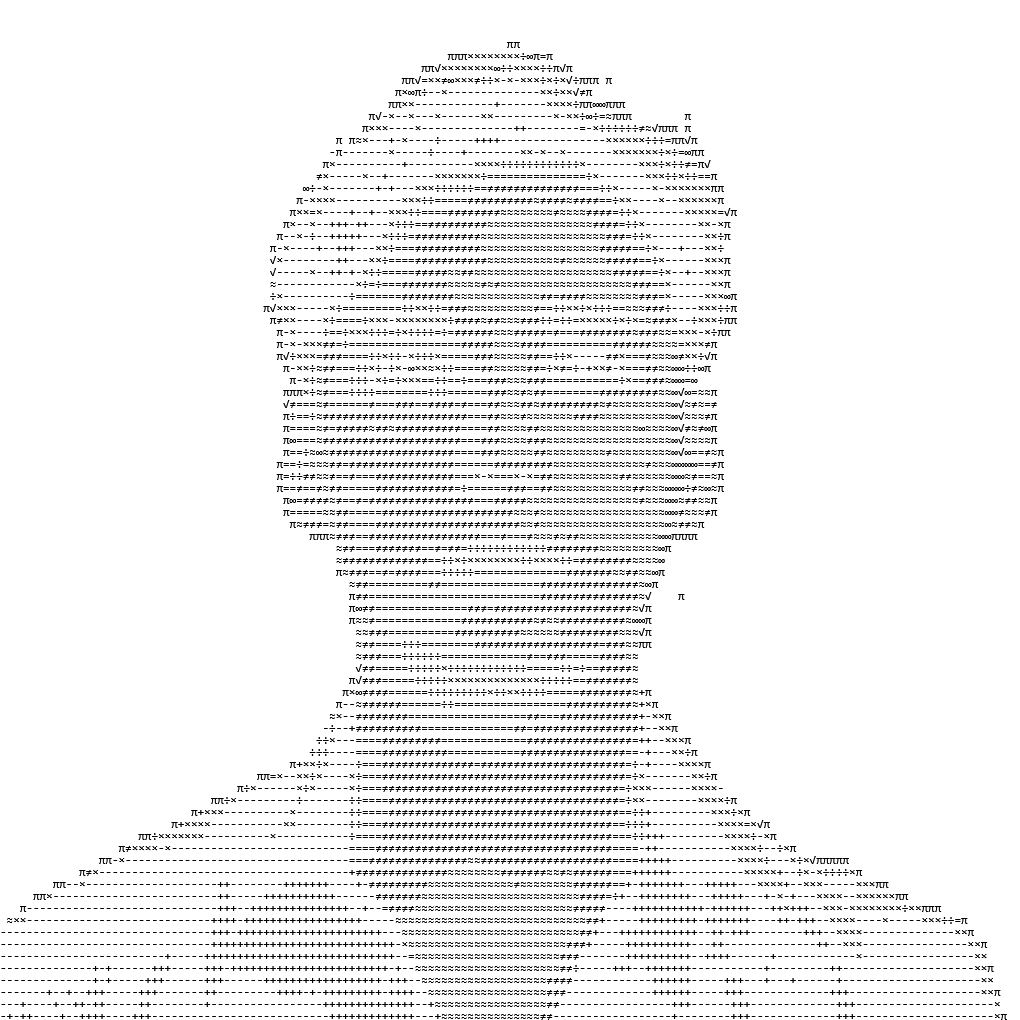
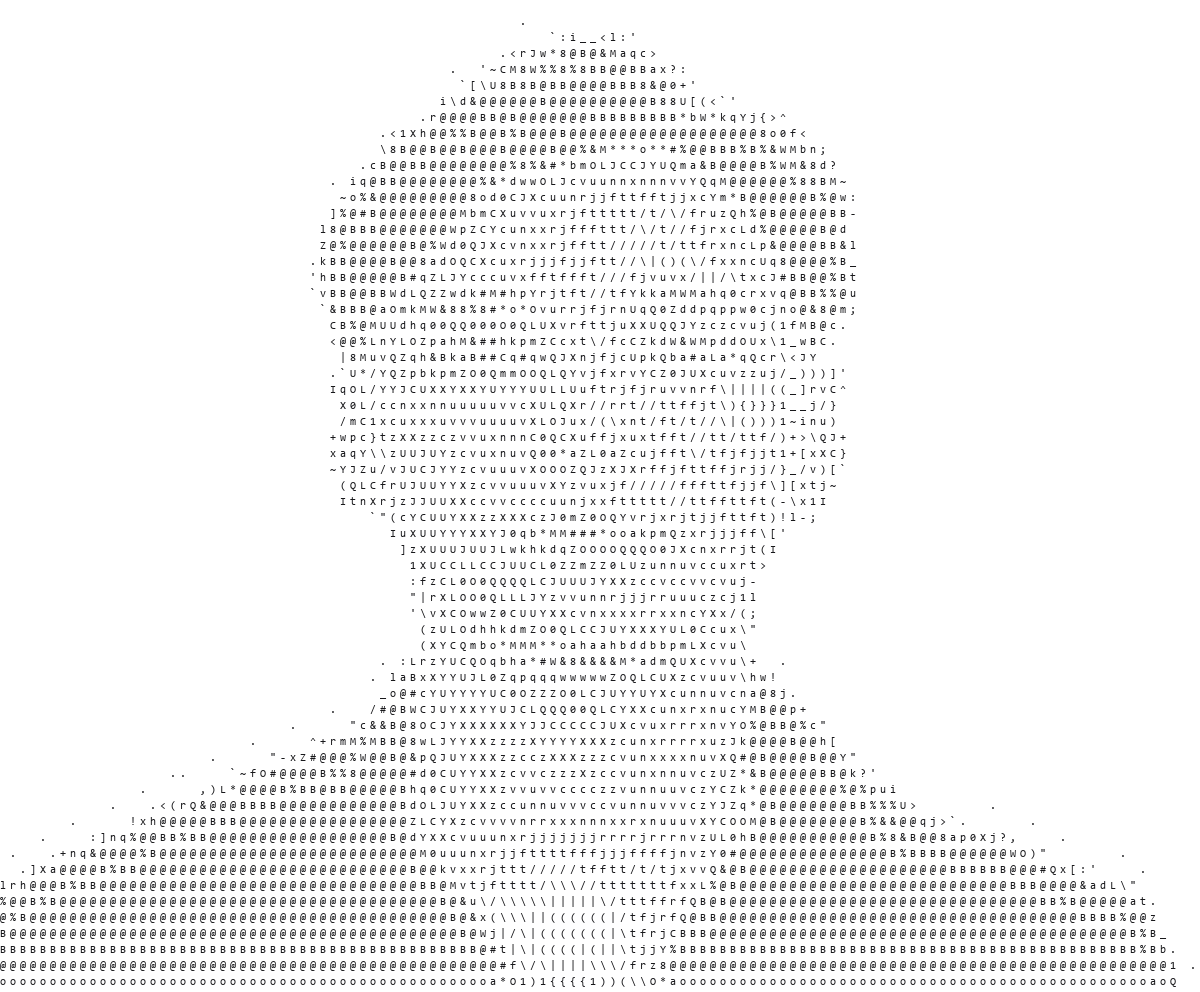
fix: regenerate recognizable ASCII portrait from source photo
70-level luminance ramp + autocontrast for facial fidelity; light passe-partout backing so dark ink reads in both themes. Adds scripts/ascii_portrait.py generator.

Changed region(s): [[0.0, 0.0312, 1.0, 1.0]]

diff --git a/components/intro.tsx b/components/intro.tsx
@@ -221,7 +221,7 @@ export default function Intro() {
                     width="400"
                     height="400"
                     priority={true}
-                    className={`aspect-square w-full rounded-xl object-cover transition-all duration-500 shadow-inner ${
+                    className={`aspect-square w-full rounded-xl object-contain bg-[#faf9f7] p-3 transition-all duration-500 shadow-inner ${
                       rawView ? "invert hue-rotate-180 contrast-125" : ""
                     } ${burst ? "opacity-20 blur-[1px]" : ""}`}
                   />

diff --git a/scripts/ascii_portrait.py b/scripts/ascii_portrait.py
@@ -1,0 +1,76 @@
+"""Render a recognizable ASCII portrait PNG from the source photo.
+
+Reads the original carnet photo, maps luminance to a 70-level glyph ramp with
+contrast enhancement, and rasterizes it with a monospace font to a crisp PNG.
+Output overwrites public/CV_Image.png (transparent background so it sits on the
+frame surface in both light and dark themes).
+"""
+
+from PIL import Image, ImageOps, ImageEnhance, ImageDraw, ImageFont
+
+SRC = r"C:\Users\guido\Pictures\FotoCarnet_Yo_CV.png"
+OUT = r"D:\IT\Projects\portfolio\public\CV_Image.png"
+
+# Light -> dark ramp (index 0 = white/space, last = densest ink).
+RAMP = " .'`^\",:;Il!i><~+_-?][}{1)(|\\/tfjrxnuvczXYUJCLQ0OZmwqpdbkhao*#MW&8%B@"
+
+COLS = 120          # horizontal glyph resolution
+CHAR_ASPECT = 0.52  # monospace cell height/width correction
+CELL = 11           # px per glyph cell in the output raster
+INK = (24, 24, 27)  # zinc-900, drawn on transparent bg
+
+def main():
+    img = Image.open(SRC).convert("L")
+
+    # Trim the wide white margins so the face fills the frame.
+    inv = ImageOps.invert(img)
+    bbox = inv.point(lambda p: 255 if p > 28 else 0).getbbox()
+    if bbox:
+        pad = int(min(img.size) * 0.04)
+        l, t, r, b = bbox
+        img = img.crop((max(0, l - pad), max(0, t - pad),
+                        min(img.width, r + pad), min(img.height, b + pad)))
+
+    # Pad to a square so the portrait isn't stretched in the 1:1 frame.
+    side = max(img.size)
+    sq = Image.new("L", (side, side), 255)
+    sq.paste(img, ((side - img.width) // 2, (side - img.height) // 2))
+    img = sq
+
+    img = ImageOps.autocontrast(img, cutoff=1)
+    img = ImageEnhance.Contrast(img).enhance(1.35)
+
+    rows = int(COLS * CHAR_ASPECT)
+    small = img.resize((COLS, rows), Image.LANCZOS)
+    px = small.load()
+
+    n = len(RAMP) - 1
+    lines = []
+    for y in range(rows):
+        line = []
+        for x in range(COLS):
+            lum = px[x, y]
+            line.append(RAMP[int((255 - lum) / 255 * n)])
+        lines.append("".join(line))
+
+    # Rasterize to PNG with a monospace face.
+    cw = int(CELL * CHAR_ASPECT * 1.0) + 5
+    ch = CELL + 5
+    try:
+        font = ImageFont.truetype(r"C:\Windows\Fonts\consola.ttf", CELL)
+    except OSError:
+        font = ImageFont.load_default()
+
+    W, H = COLS * cw, rows * ch
+    canvas = Image.new("RGBA", (W, H), (0, 0, 0, 0))
+    draw = ImageDraw.Draw(canvas)
+    for j, line in enumerate(lines):
+        for i, c in enumerate(line):
+            if c != " ":
+                draw.text((i * cw, j * ch), c, font=font, fill=INK + (255,))
+
+    canvas.save(OUT)
+    print(f"saved {OUT} ({W}x{H}), grid {COLS}x{rows}")
+
+if __name__ == "__main__":
+    main()